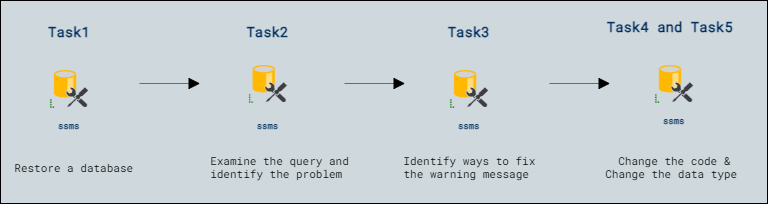
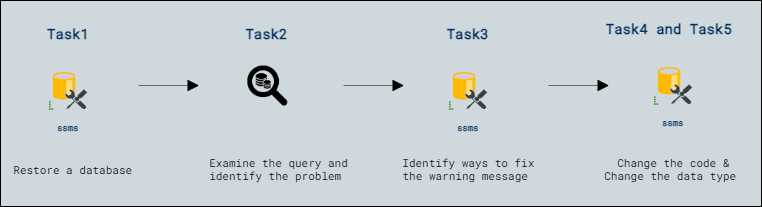
updated

diff --git a/Instructions/Labs/Lab-Scenario-Preview/Module10.md b/Instructions/Labs/Lab-Scenario-Preview/Module10.md
@@ -11,13 +11,7 @@ You'll run queries with suboptimal performance, examine the query plans, and att
 After completing this lab, you will be able to:
 
 - Restore a database
-- Generate actual execution plan
-- Resolve a suboptimal query plan
-- Use Query Store to detect and handle regression
-- Examine Top Resource Consuming Queries report
-- Force a better execution plan
-- Use query hints to impact performance
-- Change the query to use a variable and use a Query Hint
+- Identifying Query Performance Issues
 
 ## Architecture Diagram
 
